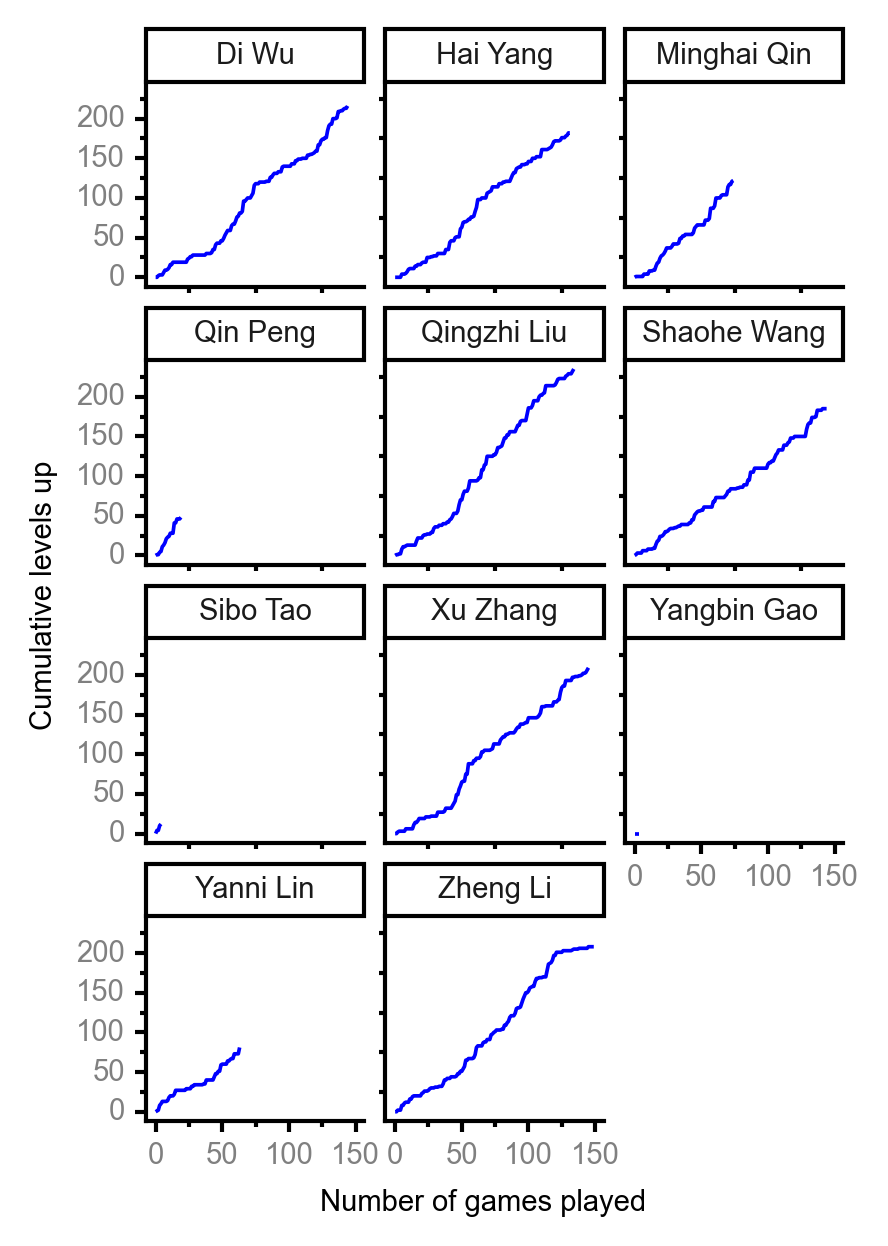
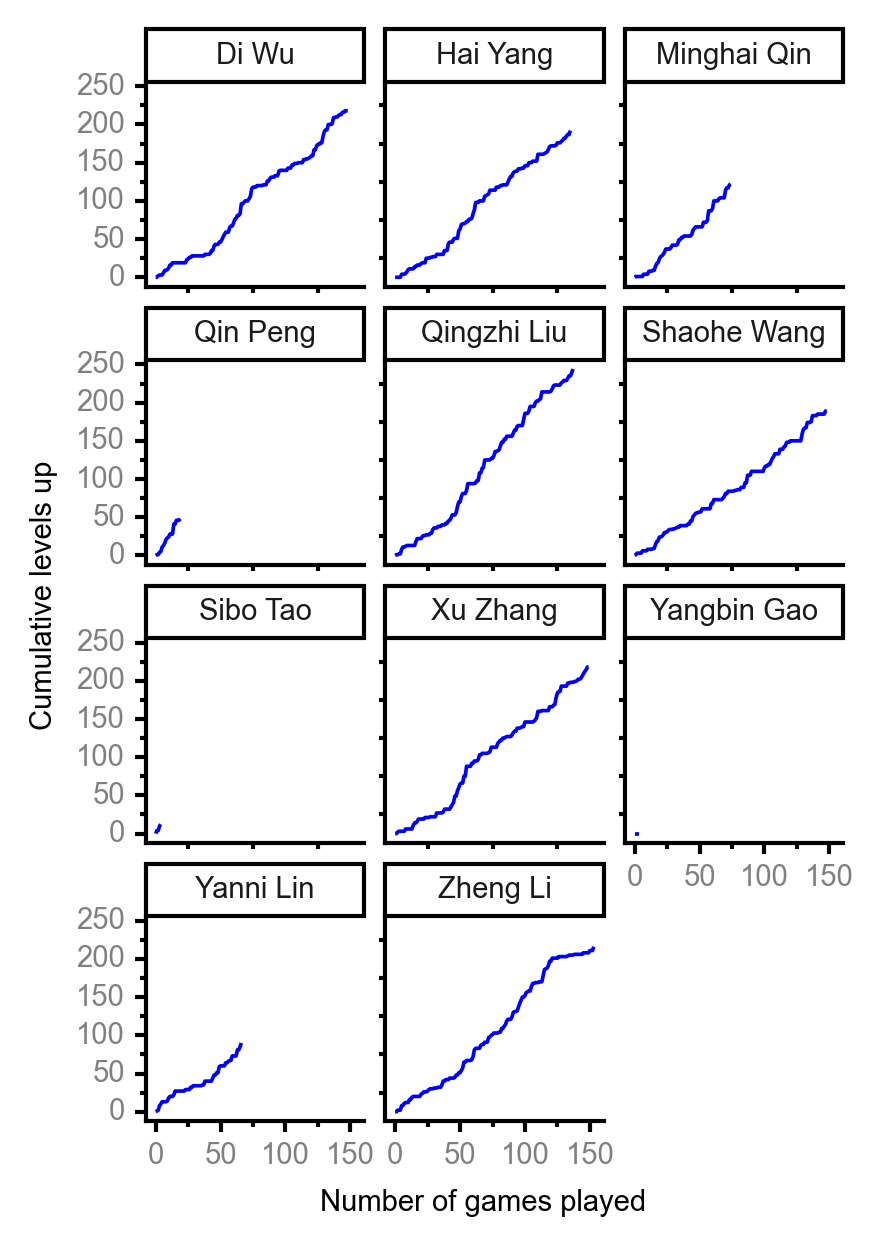
update player stats

diff --git a/player_stats.md b/player_stats.md
@@ -3,7 +3,7 @@ layout: player_stats
 title: Player Statistics
 author: Shaohe Wang
 author_url: https://scholar.google.com/citations?user=R_-kJV4AAAAJ&hl=en
-date: 2021-02-07
+date: 2021-02-13
 ---
 
 #### [Spreadsheet](https://docs.google.com/spreadsheets/d/1So3PBr9gV3I0LzApZOgJlQew2QjM1wAiWhR50rAnHRg/edit#gid=2137801449)
@@ -14,14 +14,14 @@ date: 2021-02-07
 
 | <br><br><br>Rank | <br><br><br>Player | <br> Lifetime <br> levels <br> up | <br><br> Winning <br> rate | <br> Average <br> levels <br> up | <br> Total <br> games <br> played | Games <br> played <br> as <br> MVP | Games <br> played <br> as <br> dealer | N_games <br> short <br> staffed <br> as dealer | Winning <br> rate <br> as <br> dealer |
 |:---:|:---:|:---:|:---:|:---:|:---:|:---:|:---:|:---:|:---:|
-| 1 | Qingzhi <br> Liu | 235 | 54.8% | 3.18 | 135 | 9 | 22 | 3 | 54.5% |
-| 2 | Di <br> Wu | 216 | 48.3% | 3.09 | 145 | 8 | 24 | 0 | 41.7% |
-| 3 | Xu <br> Zhang | 212 | 50.0% | 2.90 | 146 | 6 | 25 | 0 | 48.0% |
-| 4 | Zheng <br> Li | 211 | 54.7% | 2.57 | 150 | 5 | 21 | 0 | 57.1% |
-| 5 | Hai <br> Yang | 185 | 49.2% | 2.85 | 132 | 10 | 23 | 1 | 47.8% |
-| 6 | Shaohe <br> Wang | 185 | 45.5% | 2.80 | 145 | 5 | 24 | 2 | 37.5% |
+| 1 | Qingzhi <br> Liu | 246 | 55.8% | 3.19 | 138 | 11 | 22 | 3 | 54.5% |
+| 2 | Xu <br> Zhang | 218 | 50.0% | 2.91 | 150 | 7 | 25 | 0 | 48.0% |
+| 3 | Di <br> Wu | 218 | 47.7% | 3.07 | 149 | 8 | 25 | 0 | 40.0% |
+| 4 | Zheng <br> Li | 216 | 53.9% | 2.60 | 154 | 5 | 22 | 0 | 54.5% |
+| 5 | Hai <br> Yang | 194 | 50.0% | 2.85 | 136 | 10 | 24 | 1 | 50.0% |
+| 6 | Shaohe <br> Wang | 189 | 45.0% | 2.82 | 149 | 6 | 25 | 2 | 36.0% |
 | 7 | Minghai <br> Qin | 123 | 53.3% | 3.08 | 75 | 1 | 11 | 1 | 72.7% |
-| 8 | Yanni <br> Lin | 81 | 43.8% | 2.89 | 64 | 9 | 5 | 2 | 40.0% |
+| 8 | Yanni <br> Lin | 92 | 46.3% | 2.97 | 67 | 9 | 5 | 2 | 40.0% |
 | 9 | Qin <br> Peng | 51 | 75.0% | 3.40 | 20 | 2 | 2 | 0 | 100.0% |
 | 10 | Sibo <br> Tao | 14 | 80.0% | 3.50 | 5 | 0 | 0 | 0 | 0.0% |
 | 11 | Yangbin <br> Gao | 0 | 0.0% | 0.00 | 4 | 0 | 0 | 0 | 0.0% |
